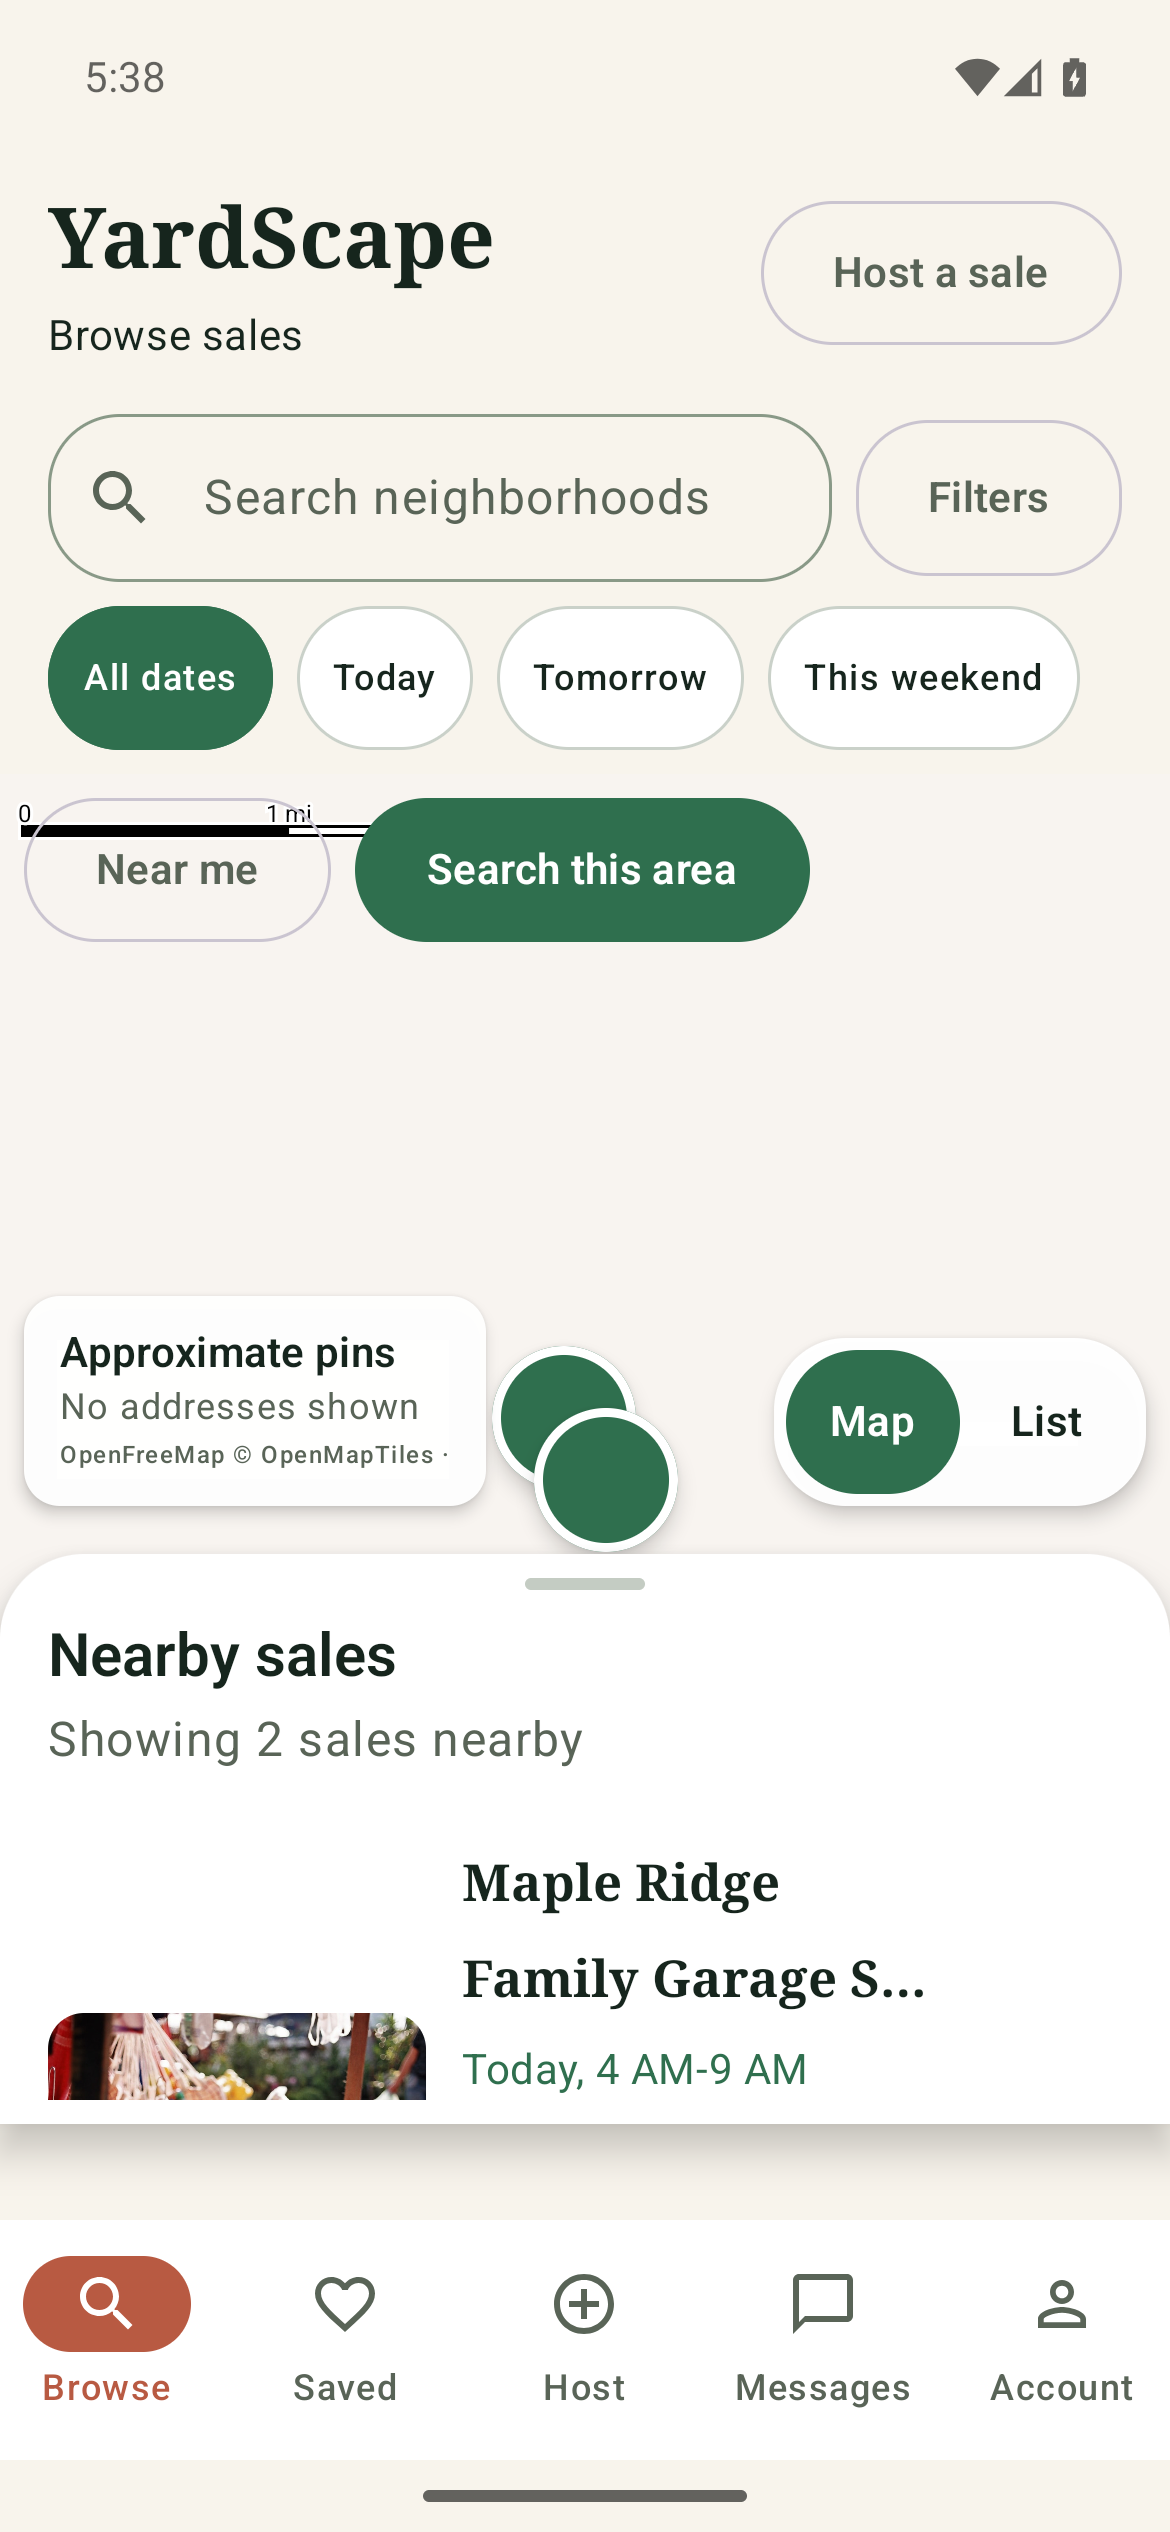
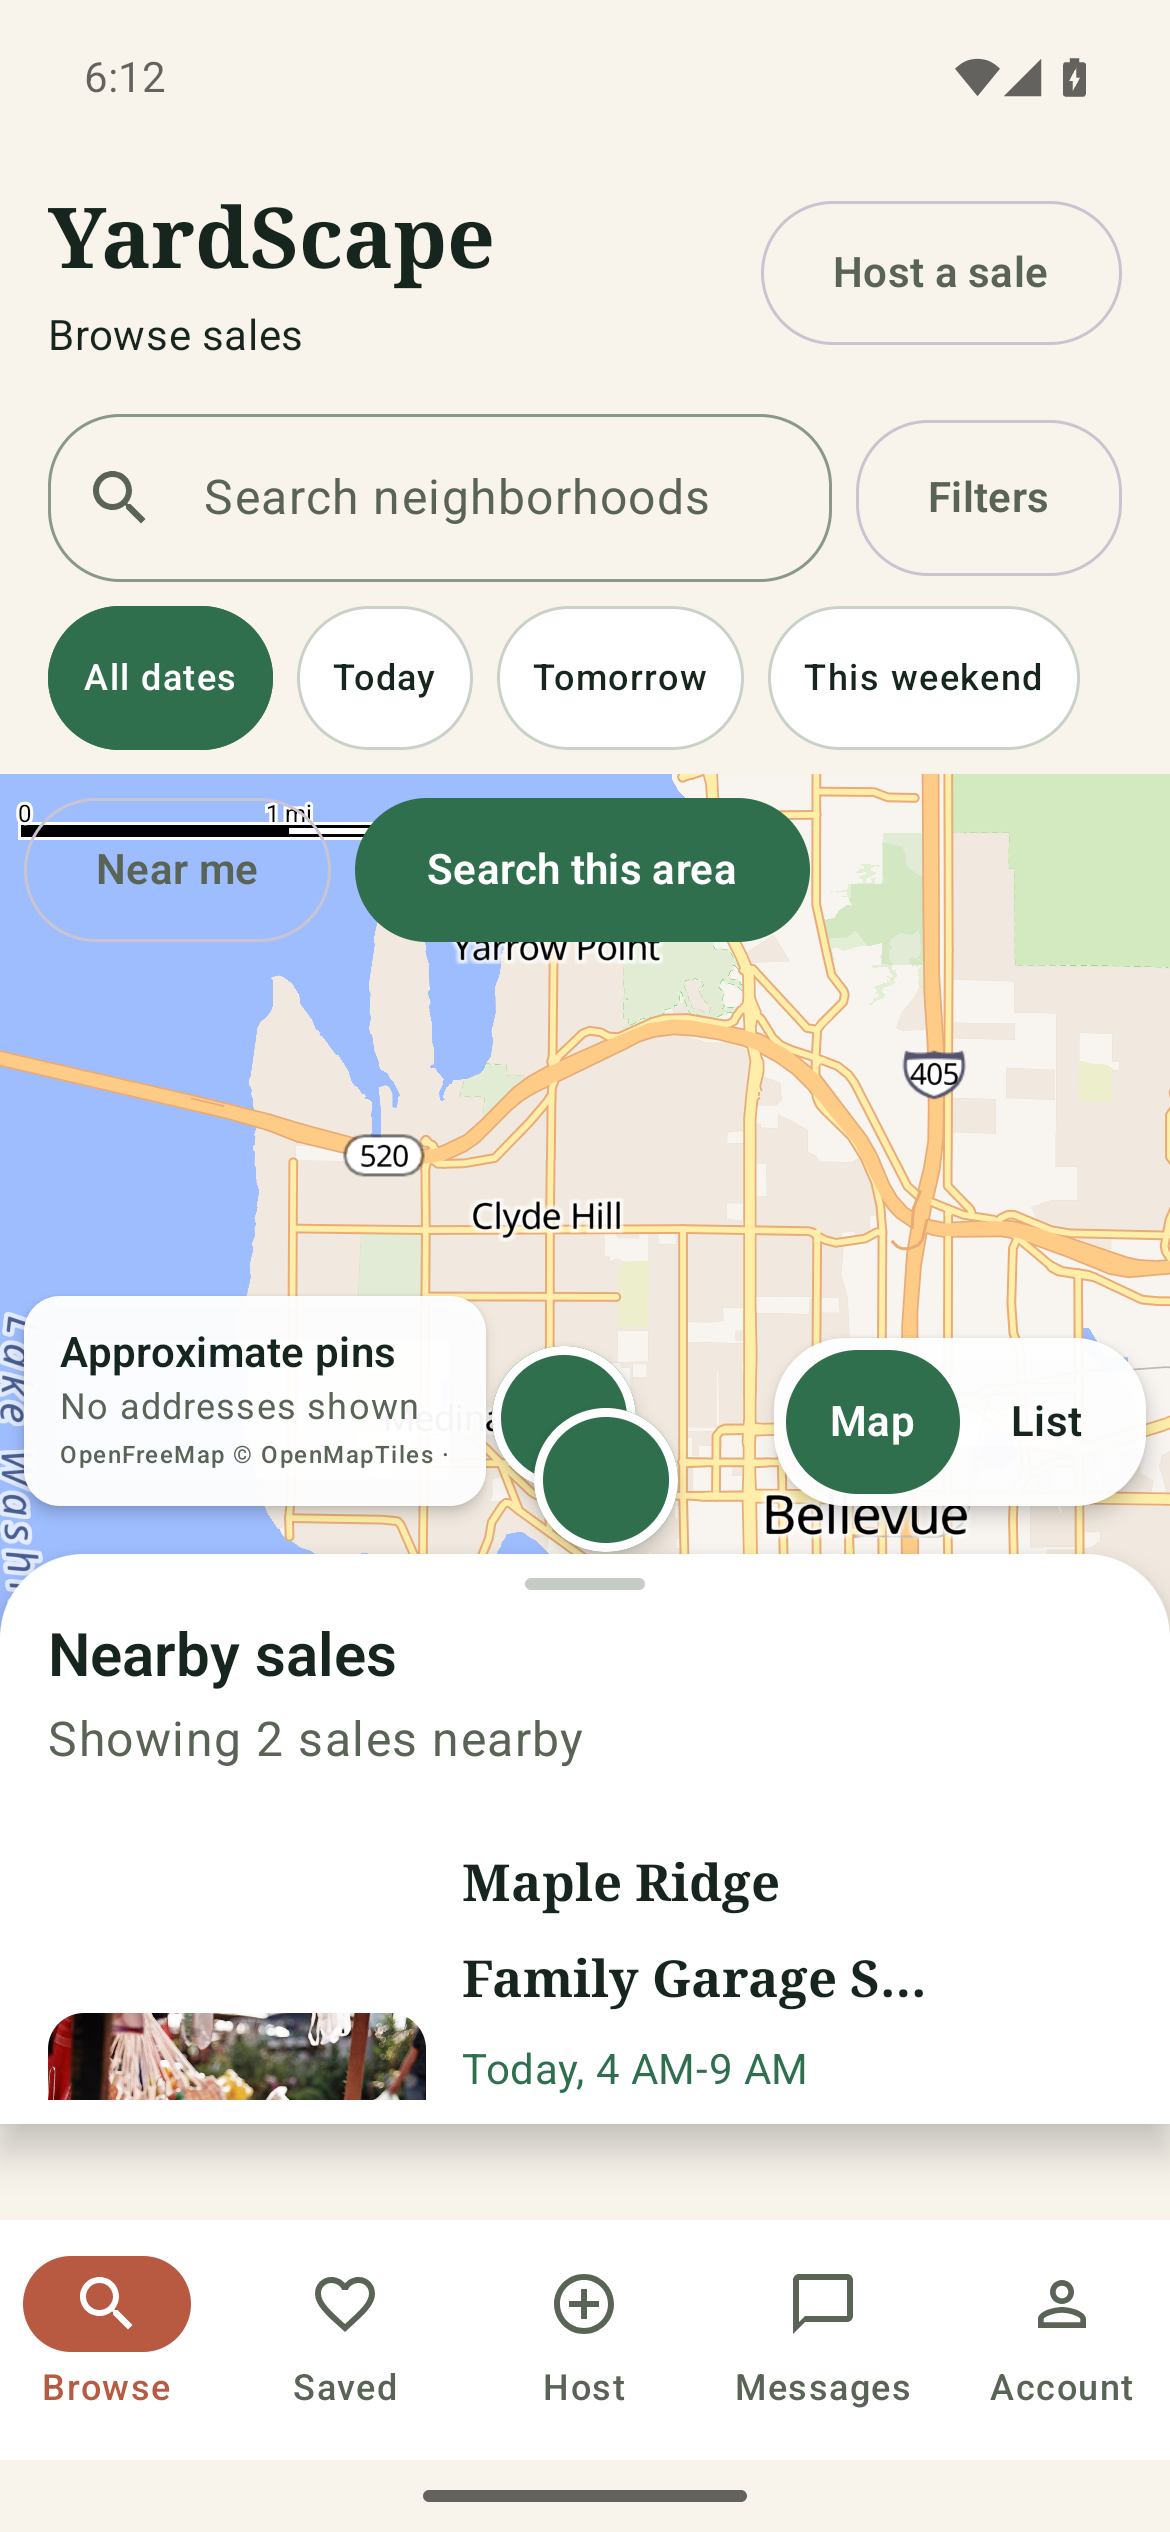
fix: preserve browse filter accessibility

diff --git a/app/androidApp/src/androidTest/kotlin/com/naslabs/yardscape/MarketplaceResponsiveTest.kt b/app/androidApp/src/androidTest/kotlin/com/naslabs/yardscape/MarketplaceResponsiveTest.kt
@@ -5,6 +5,8 @@ import androidx.compose.ui.layout.Layout
 import androidx.compose.ui.platform.testTag
 import androidx.compose.ui.test.assertHeightIsAtLeast
 import androidx.compose.ui.test.assertIsDisplayed
+import androidx.compose.ui.test.assertIsNotSelected
+import androidx.compose.ui.test.assertIsSelected
 import androidx.compose.ui.test.assertWidthIsEqualTo
 import androidx.compose.ui.test.hasText
 import androidx.compose.ui.test.hasTestTag
@@ -60,7 +62,9 @@ class MarketplaceResponsiveTest {
         composeRule.onNodeWithText("Host a sale").assertIsDisplayed().assertHeightIsAtLeast(48.dp)
         composeRule.onNodeWithContentDescription("Search sales")
             .assertIsDisplayed().assertHeightIsAtLeast(48.dp)
-        composeRule.onNodeWithText("All dates").assertIsDisplayed().assertHeightIsAtLeast(48.dp)
+        composeRule.onNodeWithText("All dates")
+            .assertIsDisplayed().assertHeightIsAtLeast(48.dp).assertIsSelected()
+        composeRule.onNodeWithText("Today").assertIsNotSelected()
         composeRule.onNodeWithText("Saved").assertIsDisplayed()
 
         YardScapePrimaryDestination.entries.forEach { destination ->

diff --git a/app/shared/src/commonMain/kotlin/com/naslabs/yardscape/ui/YardScapeComponents.kt b/app/shared/src/commonMain/kotlin/com/naslabs/yardscape/ui/YardScapeComponents.kt
@@ -18,6 +18,8 @@ import androidx.compose.runtime.Composable
 import androidx.compose.ui.Alignment
 import androidx.compose.ui.Modifier
 import androidx.compose.ui.graphics.Color
+import androidx.compose.ui.semantics.selected
+import androidx.compose.ui.semantics.semantics
 import androidx.compose.ui.text.font.FontWeight
 import androidx.compose.ui.text.style.TextOverflow
 import androidx.compose.ui.unit.Dp
@@ -140,6 +142,7 @@ internal fun FilterChip(
     Surface(
         modifier = Modifier
             .yardScapeInteractiveTarget()
+            .semantics { this.selected = presentation.isSelected }
             .widthIn(max = 160.dp),
         onClick = onClick,
         shape = MaterialTheme.shapes.extraLarge,

diff --git a/design-qa.md b/design-qa.md
@@ -20,13 +20,14 @@ The combined full-view image is sufficient for the typography, controls, map ove
 - Colors and tokens: linen, evergreen, white, gray-green, and clay map to the approved visual language. Public map markers now use evergreen.
 - Image quality: existing compressed marketplace photography is used with consistent crops and descriptive alternatives; no placeholder or generated imagery was introduced.
 - Copy and content: Browse, host, search, filters, date options, privacy disclosure, nearby results, and compact Saved navigation use production-facing language.
-- Accessibility and behavior: 48 dp targets, semantic labels, sheet resize actions, live-map attribution, and the list alternative remain intact.
+- Accessibility and behavior: 48 dp targets, semantic labels and selected filter state, sheet resize actions, live-map attribution, and the list alternative remain intact.
 
 ## Comparison history
 
 1. Pass 1 found P1 hierarchy drift: the 620 dp compact map placed the nearby-sales sheet below the visible viewport. The compact map was reduced and the sheet now overlays the map above persistent navigation.
 2. Pass 2 found P2 control and overlay drift: date pills clipped, privacy and mode controls were hidden below the sheet, and public pins used blue. Pills were compacted, the bottom overlays were lifted above the sheet, and markers were changed to evergreen.
 3. Pass 3 found a P2 selected-state defect: the Map label used the selected container color and was unreadable. The selected label now uses `onPrimary`; the final comparison shows the complete segmented control.
+4. Review found the custom date pills no longer exposed their selected state and the earlier evidence had been captured before the live map stabilized. Selected semantics are now device-tested, and the final screenshot was recaptured after tiles, attribution, and approximate markers rendered.
 
 ## Follow-up polish
 
